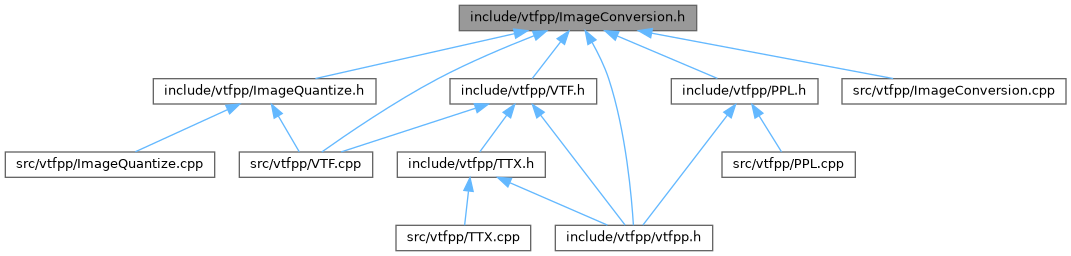
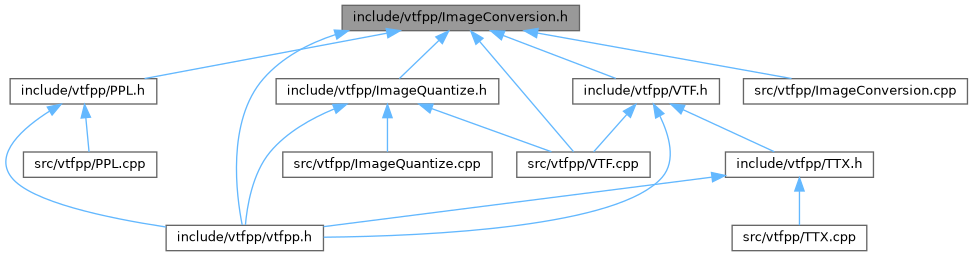
Deploying to docs from @ craftablescience/sourcepp@82d8f7500dc30d81c03b4179ac9c7ca5d6462399 🚀

diff --git a/d3/db3/vtfpp_8h.html b/d3/db3/vtfpp_8h.html
@@ -129,6 +129,7 @@ $(document).ready(function(){initNavTree('d3/db3/vtfpp_8h.html','../../'); initR
 <div class="textblock"><code>#include &quot;<a class="el" href="../../d0/de2/HOT_8h_source.html">HOT.h</a>&quot;</code><br />
 <code>#include &quot;<a class="el" href="../../da/d01/ImageConversion_8h_source.html">ImageConversion.h</a>&quot;</code><br />
 <code>#include &quot;<a class="el" href="../../d1/d2d/ImageFormats_8h_source.html">ImageFormats.h</a>&quot;</code><br />
+<code>#include &quot;<a class="el" href="../../d5/d53/ImageQuantize_8h_source.html">ImageQuantize.h</a>&quot;</code><br />
 <code>#include &quot;<a class="el" href="../../d5/d97/PPL_8h_source.html">PPL.h</a>&quot;</code><br />
 <code>#include &quot;<a class="el" href="../../d0/d51/SHT_8h_source.html">SHT.h</a>&quot;</code><br />
 <code>#include &quot;<a class="el" href="../../d0/d57/TTX_8h_source.html">TTX.h</a>&quot;</code><br />
@@ -138,37 +139,38 @@ Include dependency graph for vtfpp.h:</div>
 <div class="dyncontent">
 <div class="center"><img src="../../db/d65/vtfpp_8h__incl.png" border="0" usemap="#ainclude_2vtfpp_2vtfpp_8h" alt=""/></div>
 <map name="ainclude_2vtfpp_2vtfpp_8h" id="ainclude_2vtfpp_2vtfpp_8h">
-<area shape="rect" title=" " alt="" coords="605,5,762,31"/>
-<area shape="rect" href="../../d0/de2/HOT_8h.html" title=" " alt="" coords="1193,225,1254,251"/>
-<area shape="rect" href="../../da/d01/ImageConversion_8h.html" title=" " alt="" coords="127,225,275,251"/>
-<area shape="rect" href="../../d1/d2d/ImageFormats_8h.html" title=" " alt="" coords="187,299,315,324"/>
-<area shape="rect" href="../../d5/d97/PPL_8h.html" title=" " alt="" coords="457,152,515,177"/>
-<area shape="rect" href="../../d0/d51/SHT_8h.html" title=" " alt="" coords="1110,225,1169,251"/>
-<area shape="rect" href="../../d0/d57/TTX_8h.html" title=" " alt="" coords="654,79,713,104"/>
-<area shape="rect" href="../../d4/d91/VTF_8h.html" title=" " alt="" coords="816,152,873,177"/>
-<area shape="rect" title=" " alt="" coords="856,299,927,324"/>
-<area shape="rect" title=" " alt="" coords="691,299,745,324"/>
-<area shape="rect" title=" " alt="" coords="1262,299,1321,324"/>
-<area shape="rect" title=" " alt="" coords="769,299,832,324"/>
-<area shape="rect" href="../../df/d0a/Macros_8h.html" title=" " alt="" coords="951,299,1095,324"/>
-<area shape="rect" href="../../db/d8a/Math_8h.html" title=" " alt="" coords="1074,372,1205,397"/>
-<area shape="rect" title=" " alt="" coords="779,445,871,471"/>
-<area shape="rect" title=" " alt="" coords="1000,445,1039,471"/>
-<area shape="rect" title=" " alt="" coords="895,445,975,471"/>
-<area shape="rect" title=" " alt="" coords="1063,445,1125,471"/>
-<area shape="rect" title=" " alt="" coords="1150,445,1217,471"/>
-<area shape="rect" title=" " alt="" coords="1241,445,1320,471"/>
-<area shape="rect" title=" " alt="" coords="1345,445,1419,471"/>
-<area shape="rect" title=" " alt="" coords="611,299,667,324"/>
-<area shape="rect" title=" " alt="" coords="339,299,459,324"/>
-<area shape="rect" href="../../d7/dd4/Templates_8h.html" title=" " alt="" coords="237,372,401,397"/>
-<area shape="rect" title=" " alt="" coords="27,225,102,251"/>
-<area shape="rect" title=" " alt="" coords="299,225,423,251"/>
-<area shape="rect" title=" " alt="" coords="600,225,655,251"/>
-<area shape="rect" title=" " alt="" coords="933,225,993,251"/>
-<area shape="rect" title=" " alt="" coords="1017,225,1085,251"/>
-<area shape="rect" href="../../d9/db1/Binary_8h.html" title=" " alt="" coords="1380,225,1563,251"/>
-<area shape="rect" title=" " alt="" coords="1360,299,1433,324"/>
+<area shape="rect" title=" " alt="" coords="472,5,629,31"/>
+<area shape="rect" href="../../d0/de2/HOT_8h.html" title=" " alt="" coords="453,225,515,251"/>
+<area shape="rect" href="../../da/d01/ImageConversion_8h.html" title=" " alt="" coords="230,225,378,251"/>
+<area shape="rect" href="../../d1/d2d/ImageFormats_8h.html" title=" " alt="" coords="5,299,133,324"/>
+<area shape="rect" href="../../d5/d53/ImageQuantize_8h.html" title=" " alt="" coords="257,79,391,104"/>
+<area shape="rect" href="../../d5/d97/PPL_8h.html" title=" " alt="" coords="1142,152,1199,177"/>
+<area shape="rect" href="../../d0/d51/SHT_8h.html" title=" " alt="" coords="868,225,927,251"/>
+<area shape="rect" href="../../d0/d57/TTX_8h.html" title=" " alt="" coords="664,79,723,104"/>
+<area shape="rect" href="../../d4/d91/VTF_8h.html" title=" " alt="" coords="665,152,722,177"/>
+<area shape="rect" title=" " alt="" coords="925,299,995,324"/>
+<area shape="rect" title=" " alt="" coords="796,299,849,324"/>
+<area shape="rect" title=" " alt="" coords="1020,299,1079,324"/>
+<area shape="rect" title=" " alt="" coords="702,299,765,324"/>
+<area shape="rect" href="../../df/d0a/Macros_8h.html" title=" " alt="" coords="352,299,496,324"/>
+<area shape="rect" href="../../db/d8a/Math_8h.html" title=" " alt="" coords="663,372,793,397"/>
+<area shape="rect" title=" " alt="" coords="377,445,469,471"/>
+<area shape="rect" title=" " alt="" coords="891,445,930,471"/>
+<area shape="rect" title=" " alt="" coords="493,445,573,471"/>
+<area shape="rect" title=" " alt="" coords="954,445,1017,471"/>
+<area shape="rect" title=" " alt="" coords="597,445,664,471"/>
+<area shape="rect" title=" " alt="" coords="689,445,767,471"/>
+<area shape="rect" title=" " alt="" coords="792,445,867,471"/>
+<area shape="rect" title=" " alt="" coords="571,299,627,324"/>
+<area shape="rect" title=" " alt="" coords="157,299,277,324"/>
+<area shape="rect" href="../../d7/dd4/Templates_8h.html" title=" " alt="" coords="227,372,391,397"/>
+<area shape="rect" title=" " alt="" coords="1492,225,1567,251"/>
+<area shape="rect" title=" " alt="" coords="1591,225,1715,251"/>
+<area shape="rect" title=" " alt="" coords="1053,225,1107,251"/>
+<area shape="rect" title=" " alt="" coords="539,225,599,251"/>
+<area shape="rect" title=" " alt="" coords="623,225,691,251"/>
+<area shape="rect" href="../../d9/db1/Binary_8h.html" title=" " alt="" coords="1285,225,1467,251"/>
+<area shape="rect" title=" " alt="" coords="1339,299,1413,324"/>
 </map>
 </div>
 </div>

diff --git a/d3/db3/vtfpp_8h_source.html b/d3/db3/vtfpp_8h_source.html
@@ -136,13 +136,15 @@ $(document).ready(function(){initNavTree('d3/db3/vtfpp_8h_source.html','../../')
 <div class="line"><a id="l00008" name="l00008"></a><span class="lineno">    8</span><span class="preprocessor">#include &quot;<a class="code" href="../../d0/de2/HOT_8h.html">HOT.h</a>&quot;</span></div>
 <div class="line"><a id="l00009" name="l00009"></a><span class="lineno">    9</span><span class="preprocessor">#include &quot;<a class="code" href="../../da/d01/ImageConversion_8h.html">ImageConversion.h</a>&quot;</span></div>
 <div class="line"><a id="l00010" name="l00010"></a><span class="lineno">   10</span><span class="preprocessor">#include &quot;<a class="code" href="../../d1/d2d/ImageFormats_8h.html">ImageFormats.h</a>&quot;</span></div>
-<div class="line"><a id="l00011" name="l00011"></a><span class="lineno">   11</span><span class="preprocessor">#include &quot;<a class="code" href="../../d5/d97/PPL_8h.html">PPL.h</a>&quot;</span></div>
-<div class="line"><a id="l00012" name="l00012"></a><span class="lineno">   12</span><span class="preprocessor">#include &quot;<a class="code" href="../../d0/d51/SHT_8h.html">SHT.h</a>&quot;</span></div>
-<div class="line"><a id="l00013" name="l00013"></a><span class="lineno">   13</span><span class="preprocessor">#include &quot;<a class="code" href="../../d0/d57/TTX_8h.html">TTX.h</a>&quot;</span></div>
-<div class="line"><a id="l00014" name="l00014"></a><span class="lineno">   14</span><span class="preprocessor">#include &quot;<a class="code" href="../../d4/d91/VTF_8h.html">VTF.h</a>&quot;</span></div>
+<div class="line"><a id="l00011" name="l00011"></a><span class="lineno">   11</span><span class="preprocessor">#include &quot;<a class="code" href="../../d5/d53/ImageQuantize_8h.html">ImageQuantize.h</a>&quot;</span></div>
+<div class="line"><a id="l00012" name="l00012"></a><span class="lineno">   12</span><span class="preprocessor">#include &quot;<a class="code" href="../../d5/d97/PPL_8h.html">PPL.h</a>&quot;</span></div>
+<div class="line"><a id="l00013" name="l00013"></a><span class="lineno">   13</span><span class="preprocessor">#include &quot;<a class="code" href="../../d0/d51/SHT_8h.html">SHT.h</a>&quot;</span></div>
+<div class="line"><a id="l00014" name="l00014"></a><span class="lineno">   14</span><span class="preprocessor">#include &quot;<a class="code" href="../../d0/d57/TTX_8h.html">TTX.h</a>&quot;</span></div>
+<div class="line"><a id="l00015" name="l00015"></a><span class="lineno">   15</span><span class="preprocessor">#include &quot;<a class="code" href="../../d4/d91/VTF_8h.html">VTF.h</a>&quot;</span></div>
 <div class="ttc" id="aHOT_8h_html"><div class="ttname"><a href="../../d0/de2/HOT_8h.html">HOT.h</a></div></div>
 <div class="ttc" id="aImageConversion_8h_html"><div class="ttname"><a href="../../da/d01/ImageConversion_8h.html">ImageConversion.h</a></div></div>
 <div class="ttc" id="aImageFormats_8h_html"><div class="ttname"><a href="../../d1/d2d/ImageFormats_8h.html">ImageFormats.h</a></div></div>
+<div class="ttc" id="aImageQuantize_8h_html"><div class="ttname"><a href="../../d5/d53/ImageQuantize_8h.html">ImageQuantize.h</a></div></div>
 <div class="ttc" id="aPPL_8h_html"><div class="ttname"><a href="../../d5/d97/PPL_8h.html">PPL.h</a></div></div>
 <div class="ttc" id="aSHT_8h_html"><div class="ttname"><a href="../../d0/d51/SHT_8h.html">SHT.h</a></div></div>
 <div class="ttc" id="aTTX_8h_html"><div class="ttname"><a href="../../d0/d57/TTX_8h.html">TTX.h</a></div></div>

diff --git a/d1/d2d/ImageFormats_8h.html b/d1/d2d/ImageFormats_8h.html
@@ -152,18 +152,18 @@ This graph shows which files directly or indirectly include this file:</div>
 <div class="dyncontent">
 <div class="center"><img src="../../df/dd0/ImageFormats_8h__dep__incl.png" border="0" usemap="#ainclude_2vtfpp_2ImageFormats_8hdep" alt=""/></div>
 <map name="ainclude_2vtfpp_2ImageFormats_8hdep" id="ainclude_2vtfpp_2ImageFormats_8hdep">
-<area shape="rect" title=" " alt="" coords="760,5,977,31"/>
-<area shape="rect" href="../../da/d01/ImageConversion_8h.html" title=" " alt="" coords="515,79,753,104"/>
-<area shape="rect" href="../../d3/db3/vtfpp_8h.html" title=" " alt="" coords="555,299,713,324"/>
-<area shape="rect" href="../../d5/d53/ImageQuantize_8h.html" title=" " alt="" coords="375,152,597,177"/>
-<area shape="rect" href="../../dd/d09/VTF_8cpp.html" title=" " alt="" coords="229,225,362,251"/>
-<area shape="rect" href="../../d5/d97/PPL_8h.html" title=" " alt="" coords="671,152,818,177"/>
-<area shape="rect" href="../../d4/d91/VTF_8h.html" title=" " alt="" coords="127,152,274,177"/>
-<area shape="rect" href="../../d4/df2/ImageConversion_8cpp.html" title=" " alt="" coords="842,152,1066,177"/>
-<area shape="rect" href="../../dd/d37/ImageQuantize_8cpp.html" title=" " alt="" coords="387,225,596,251"/>
-<area shape="rect" href="../../d3/d57/PPL_8cpp.html" title=" " alt="" coords="671,225,805,251"/>
-<area shape="rect" href="../../d0/d57/TTX_8h.html" title=" " alt="" coords="5,225,153,251"/>
-<area shape="rect" href="../../dd/d43/TTX_8cpp.html" title=" " alt="" coords="12,299,147,324"/>
+<area shape="rect" title=" " alt="" coords="21,5,238,31"/>
+<area shape="rect" href="../../da/d01/ImageConversion_8h.html" title=" " alt="" coords="178,79,415,104"/>
+<area shape="rect" href="../../d3/db3/vtfpp_8h.html" title=" " alt="" coords="144,299,302,324"/>
+<area shape="rect" href="../../d5/d53/ImageQuantize_8h.html" title=" " alt="" coords="692,152,914,177"/>
+<area shape="rect" href="../../dd/d09/VTF_8cpp.html" title=" " alt="" coords="484,225,618,251"/>
+<area shape="rect" href="../../d5/d97/PPL_8h.html" title=" " alt="" coords="52,152,199,177"/>
+<area shape="rect" href="../../d4/d91/VTF_8h.html" title=" " alt="" coords="223,152,370,177"/>
+<area shape="rect" href="../../d4/df2/ImageConversion_8cpp.html" title=" " alt="" coords="444,152,668,177"/>
+<area shape="rect" href="../../dd/d37/ImageQuantize_8cpp.html" title=" " alt="" coords="642,225,852,251"/>
+<area shape="rect" href="../../d3/d57/PPL_8cpp.html" title=" " alt="" coords="52,225,186,251"/>
+<area shape="rect" href="../../d0/d57/TTX_8h.html" title=" " alt="" coords="312,225,460,251"/>
+<area shape="rect" href="../../dd/d43/TTX_8cpp.html" title=" " alt="" coords="326,299,461,324"/>
 </map>
 </div>
 </div>

diff --git a/d7/dd4/Templates_8h.html b/d7/dd4/Templates_8h.html
@@ -145,18 +145,18 @@ This graph shows which files directly or indirectly include this file:</div>
 <div class="dyncontent">
 <div class="center"><img src="../../d9/d24/Templates_8h__dep__incl.png" border="0" usemap="#ainclude_2sourcepp_2Templates_8hdep" alt=""/></div>
 <map name="ainclude_2sourcepp_2Templates_8hdep" id="ainclude_2sourcepp_2Templates_8hdep">
-<area shape="rect" title=" " alt="" coords="471,5,685,31"/>
-<area shape="rect" href="../../da/d01/ImageConversion_8h.html" title=" " alt="" coords="459,79,697,104"/>
-<area shape="rect" href="../../d5/d53/ImageQuantize_8h.html" title=" " alt="" coords="153,152,376,177"/>
-<area shape="rect" href="../../dd/d09/VTF_8cpp.html" title=" " alt="" coords="239,225,373,251"/>
-<area shape="rect" href="../../d5/d97/PPL_8h.html" title=" " alt="" coords="671,152,818,177"/>
-<area shape="rect" href="../../d3/db3/vtfpp_8h.html" title=" " alt="" coords="555,299,713,324"/>
-<area shape="rect" href="../../d4/d91/VTF_8h.html" title=" " alt="" coords="450,152,597,177"/>
-<area shape="rect" href="../../d4/df2/ImageConversion_8cpp.html" title=" " alt="" coords="842,152,1066,177"/>
-<area shape="rect" href="../../dd/d37/ImageQuantize_8cpp.html" title=" " alt="" coords="5,225,215,251"/>
-<area shape="rect" href="../../d3/d57/PPL_8cpp.html" title=" " alt="" coords="722,225,855,251"/>
-<area shape="rect" href="../../d0/d57/TTX_8h.html" title=" " alt="" coords="397,225,545,251"/>
-<area shape="rect" href="../../dd/d43/TTX_8cpp.html" title=" " alt="" coords="396,299,531,324"/>
+<area shape="rect" title=" " alt="" coords="353,5,568,31"/>
+<area shape="rect" href="../../da/d01/ImageConversion_8h.html" title=" " alt="" coords="342,79,579,104"/>
+<area shape="rect" href="../../d5/d53/ImageQuantize_8h.html" title=" " alt="" coords="276,152,499,177"/>
+<area shape="rect" href="../../d3/db3/vtfpp_8h.html" title=" " alt="" coords="166,299,323,324"/>
+<area shape="rect" href="../../dd/d09/VTF_8cpp.html" title=" " alt="" coords="517,225,650,251"/>
+<area shape="rect" href="../../d5/d97/PPL_8h.html" title=" " alt="" coords="10,152,157,177"/>
+<area shape="rect" href="../../d4/d91/VTF_8h.html" title=" " alt="" coords="573,152,719,177"/>
+<area shape="rect" href="../../d4/df2/ImageConversion_8cpp.html" title=" " alt="" coords="743,152,967,177"/>
+<area shape="rect" href="../../dd/d37/ImageQuantize_8cpp.html" title=" " alt="" coords="283,225,492,251"/>
+<area shape="rect" href="../../d3/d57/PPL_8cpp.html" title=" " alt="" coords="23,225,157,251"/>
+<area shape="rect" href="../../d0/d57/TTX_8h.html" title=" " alt="" coords="725,225,873,251"/>
+<area shape="rect" href="../../dd/d43/TTX_8cpp.html" title=" " alt="" coords="732,299,867,324"/>
 </map>
 </div>
 </div>

diff --git a/da/d01/ImageConversion_8h.html b/da/d01/ImageConversion_8h.html
@@ -170,17 +170,17 @@ This graph shows which files directly or indirectly include this file:</div>
 <div class="dyncontent">
 <div class="center"><img src="../../d9/d71/ImageConversion_8h__dep__incl.png" border="0" usemap="#ainclude_2vtfpp_2ImageConversion_8hdep" alt=""/></div>
 <map name="ainclude_2vtfpp_2ImageConversion_8hdep" id="ainclude_2vtfpp_2ImageConversion_8hdep">
-<area shape="rect" title=" " alt="" coords="459,5,697,31"/>
-<area shape="rect" href="../../d5/d53/ImageQuantize_8h.html" title=" " alt="" coords="153,79,376,104"/>
-<area shape="rect" href="../../dd/d09/VTF_8cpp.html" title=" " alt="" coords="239,152,373,177"/>
-<area shape="rect" href="../../d5/d97/PPL_8h.html" title=" " alt="" coords="671,79,818,104"/>
-<area shape="rect" href="../../d3/db3/vtfpp_8h.html" title=" " alt="" coords="555,225,713,251"/>
-<area shape="rect" href="../../d4/d91/VTF_8h.html" title=" " alt="" coords="450,79,597,104"/>
-<area shape="rect" href="../../d4/df2/ImageConversion_8cpp.html" title=" " alt="" coords="842,79,1066,104"/>
-<area shape="rect" href="../../dd/d37/ImageQuantize_8cpp.html" title=" " alt="" coords="5,152,215,177"/>
-<area shape="rect" href="../../d3/d57/PPL_8cpp.html" title=" " alt="" coords="722,152,855,177"/>
-<area shape="rect" href="../../d0/d57/TTX_8h.html" title=" " alt="" coords="397,152,545,177"/>
-<area shape="rect" href="../../dd/d43/TTX_8cpp.html" title=" " alt="" coords="396,225,531,251"/>
+<area shape="rect" title=" " alt="" coords="342,5,579,31"/>
+<area shape="rect" href="../../d5/d53/ImageQuantize_8h.html" title=" " alt="" coords="276,79,499,104"/>
+<area shape="rect" href="../../d3/db3/vtfpp_8h.html" title=" " alt="" coords="166,225,323,251"/>
+<area shape="rect" href="../../dd/d09/VTF_8cpp.html" title=" " alt="" coords="517,152,650,177"/>
+<area shape="rect" href="../../d5/d97/PPL_8h.html" title=" " alt="" coords="10,79,157,104"/>
+<area shape="rect" href="../../d4/d91/VTF_8h.html" title=" " alt="" coords="573,79,719,104"/>
+<area shape="rect" href="../../d4/df2/ImageConversion_8cpp.html" title=" " alt="" coords="743,79,967,104"/>
+<area shape="rect" href="../../dd/d37/ImageQuantize_8cpp.html" title=" " alt="" coords="283,152,492,177"/>
+<area shape="rect" href="../../d3/d57/PPL_8cpp.html" title=" " alt="" coords="23,152,157,177"/>
+<area shape="rect" href="../../d0/d57/TTX_8h.html" title=" " alt="" coords="725,152,873,177"/>
+<area shape="rect" href="../../dd/d43/TTX_8cpp.html" title=" " alt="" coords="732,225,867,251"/>
 </map>
 </div>
 </div>

diff --git a/d5/d53/ImageQuantize_8h.html b/d5/d53/ImageQuantize_8h.html
@@ -159,9 +159,10 @@ This graph shows which files directly or indirectly include this file:</div>
 <div class="dyncontent">
 <div class="center"><img src="../../de/d2a/ImageQuantize_8h__dep__incl.png" border="0" usemap="#ainclude_2vtfpp_2ImageQuantize_8hdep" alt=""/></div>
 <map name="ainclude_2vtfpp_2ImageQuantize_8hdep" id="ainclude_2vtfpp_2ImageQuantize_8hdep">
-<area shape="rect" title=" " alt="" coords="96,5,319,31"/>
-<area shape="rect" href="../../dd/d37/ImageQuantize_8cpp.html" title=" " alt="" coords="5,79,215,104"/>
-<area shape="rect" href="../../dd/d09/VTF_8cpp.html" title=" " alt="" coords="239,79,373,104"/>
+<area shape="rect" title=" " alt="" coords="181,5,403,31"/>
+<area shape="rect" href="../../d3/db3/vtfpp_8h.html" title=" " alt="" coords="5,79,163,104"/>
+<area shape="rect" href="../../dd/d37/ImageQuantize_8cpp.html" title=" " alt="" coords="187,79,397,104"/>
+<area shape="rect" href="../../dd/d09/VTF_8cpp.html" title=" " alt="" coords="421,79,555,104"/>
 </map>
 </div>
 </div>
